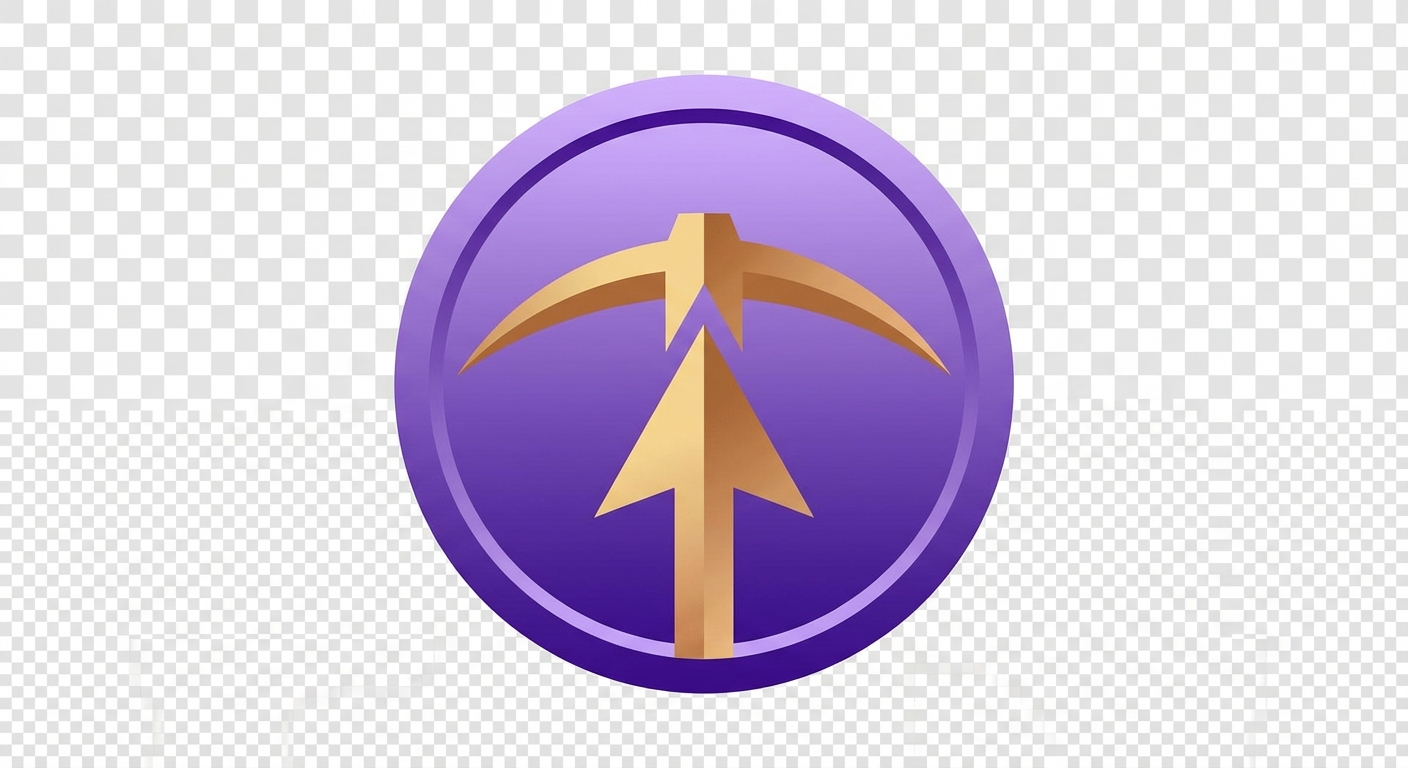
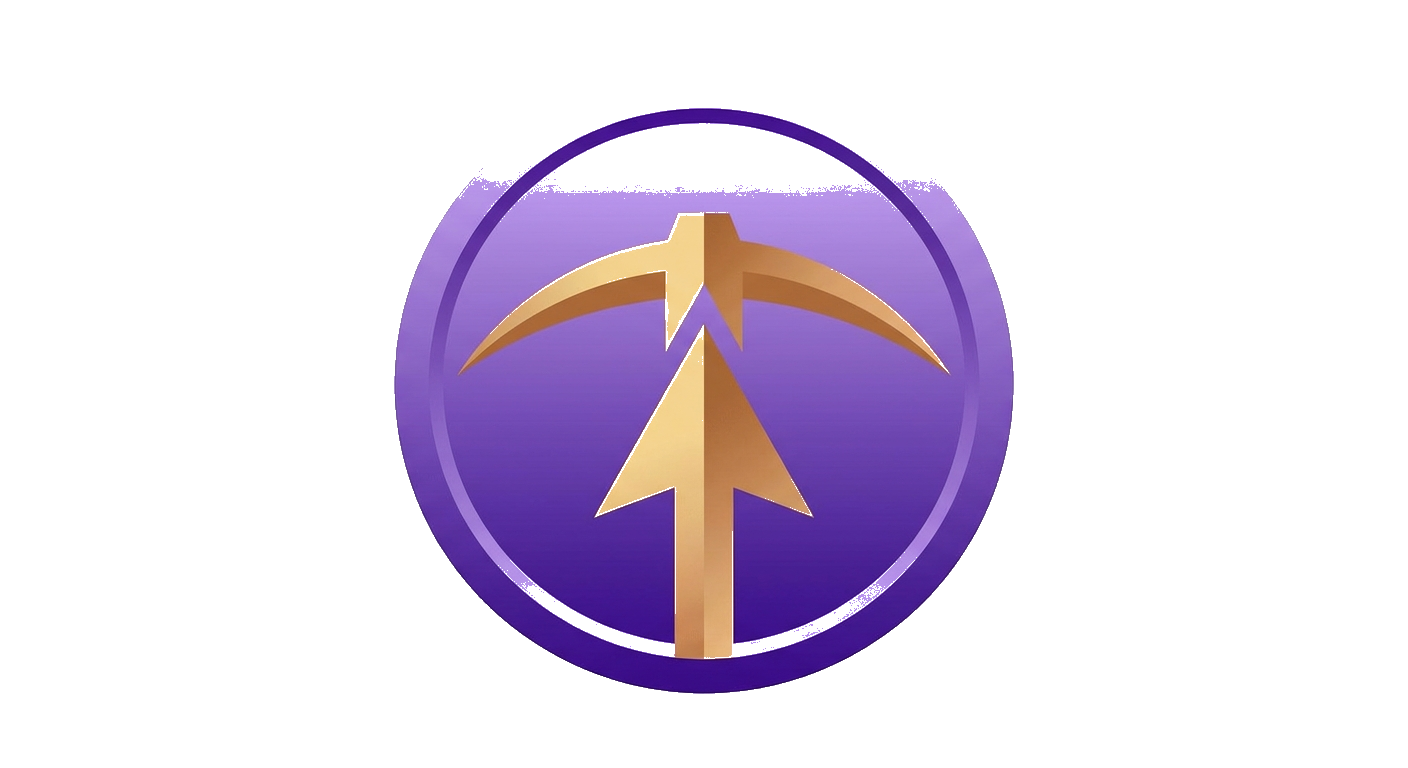
fix: 로고 배경 투명 처리 및 CSS 배경 제거 속성 추가

diff --git a/components/Layout.js b/components/Layout.js
@@ -47,7 +47,7 @@ export default function Layout({ children }) {
         <header className={styles.globalHeader}>
           <Link href="/">
             <div className={styles.logoContainer}>
-              <img src="/favicon.png" alt="DolPick" className={styles.logoIcon} />
+              <img src="/dolpick-icon.png" alt="DolPick" className={styles.logoIcon} />
               <h1 className={styles.logo}>DolPick - 암호화폐 대시보드</h1>
             </div>
           </Link>

diff --git a/styles/Layout.module.css b/styles/Layout.module.css
@@ -39,6 +39,7 @@
   object-fit: contain;
   filter: drop-shadow(0 0 8px rgba(139, 127, 244, 0.3));
   transition: all 0.3s ease;
+  background: transparent;
 }
 
 .logoContainer:hover .logoIcon {
